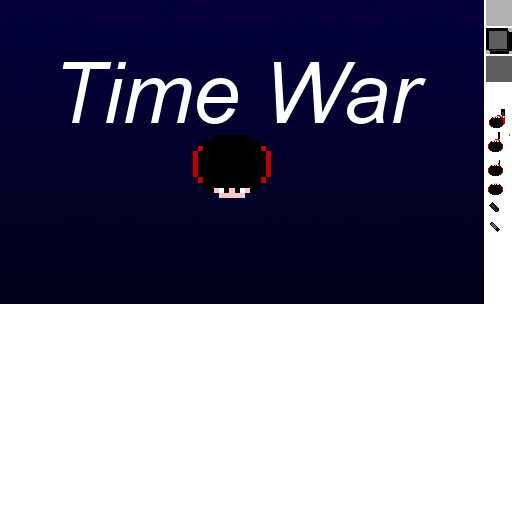
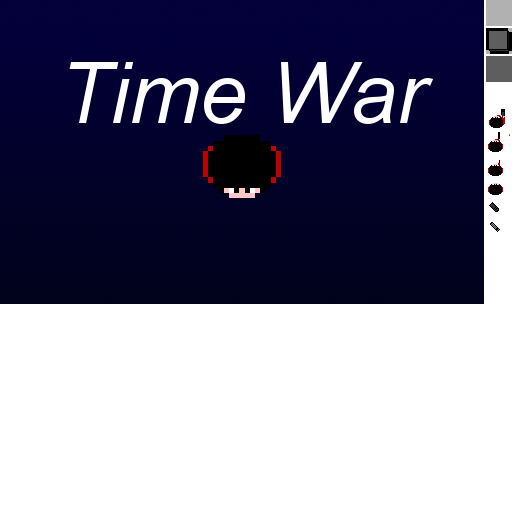
Added large font. and fixed graphics

Changed region(s): [[0.125, 0.0938, 0.5625, 0.4062], [0.5312, 0.0938, 0.8438, 0.25]]

diff --git a/Assets/Resources/Scripts/TitleScreen/TitleScreen.cs b/Assets/Resources/Scripts/TitleScreen/TitleScreen.cs
@@ -4,38 +4,49 @@ using System.Linq;
 using System.Text;
 using UnityEngine;
 
-	public class TitleScreen : FContainer
-	{
-        private float onScreenCount = 0;
-        private int startingLevel = 0;
-        public TitleScreen(): base()
-        {
-            FSprite background = new FSprite("titleScreen");
-            this.AddChild(background);
-        }
-        public override void HandleAddedToStage()
-        {
-            Futile.instance.SignalUpdate += Update;
-            Futile.stage.x = 0;
-            Futile.stage.y = 0;
-            base.HandleAddedToStage();
-        }
+public class TitleScreen : FContainer
+{
+    private float onScreenCount = 0;
+    private int startingLevel = 0;
+    private FLabel clickToStart;
 
-        public override void HandleRemovedFromStage()
-        {
-            Futile.instance.SignalUpdate -= Update;            
-            base.HandleRemovedFromStage();
-        }
+    public TitleScreen()
+        : base()
+    {
+        clickToStart = new FLabel("Large", "Click To Start");
+        FSprite background = new FSprite("titleScreen");
+        this.AddChild(background);
+        this.AddChild(clickToStart);
 
-        public void Update()
+        clickToStart.alpha = 0;
+        clickToStart.y = -Futile.screen.halfHeight / 2 ;
+    }
+
+    public override void HandleAddedToStage()
+    {
+        Futile.instance.SignalUpdate += Update;
+        Futile.stage.x = 0;
+        Futile.stage.y = 0;
+        base.HandleAddedToStage();
+    }
+
+    public override void HandleRemovedFromStage()
+    {
+        Futile.instance.SignalUpdate -= Update;
+        base.HandleRemovedFromStage();
+    }
+
+    public void Update()
+    {
+        onScreenCount += UnityEngine.Time.deltaTime;
+        if (onScreenCount > 1.0f)
+            clickToStart.alpha += UnityEngine.Time.deltaTime * 1.0f;
+        if (onScreenCount > 1.0f && Input.GetMouseButtonUp(0))
         {
-            onScreenCount += UnityEngine.Time.deltaTime;
-            if(onScreenCount > 1.0f && Input.GetMouseButtonUp(0))
-            {
-                this.RemoveFromContainer();
-                World world = new World(startingLevel);
-                Futile.instance.SignalUpdate += world.Update;
-            }
+            this.RemoveFromContainer();
+            World world = new World(startingLevel);
+            Futile.instance.SignalUpdate += world.Update;
         }
-	}
+    }
+}
 

diff --git a/Assets/Resources/Scripts/Clock.cs b/Assets/Resources/Scripts/Clock.cs
@@ -25,7 +25,7 @@ public class Clock : FRadialWipeSprite
         clockBackground = new FSprite("clock");
         clockBackground.SetPosition(GetPosition());
         label.x = x;
-        label.y = y - height/2 * tickScale / 2;
+        label.y = y - height / 2 * tickScale / 2;
 
     }
 
@@ -57,10 +57,10 @@ public class Clock : FRadialWipeSprite
     {
         timeLabel.MoveToFront();
         percentage -= UnityEngine.Time.deltaTime * .1f;
-        if (Mathf.FloorToInt(percentage * 10) != lastSecond)
+        if (Mathf.CeilToInt(percentage * 10) != lastSecond)
         {
-            lastSecond = Mathf.FloorToInt(percentage * 10);
-            timeLabel.text =""+ lastSecond;
+            lastSecond = Mathf.CeilToInt(percentage * 10);
+            timeLabel.text = "" + lastSecond;
             this.scale = tickScale;
         }
         else
@@ -72,13 +72,13 @@ public class Clock : FRadialWipeSprite
 
 
         if (this.percentage < .3f)
-            this.color = new Color(percentage*3, 0, 0);
+            this.color = new Color(percentage * 3, 0, 0);
         else if (this.percentage < .5f)
             this.color = new Color(percentage * 2, percentage * 2, 0);
         else
-            this.color = new Color( 1.0f - percentage, percentage*2,0);
+            this.color = new Color(1.0f - percentage, percentage * 2, 0);
 
         clockBackground.scale = this.scale;
-        
+
     }
 }

diff --git a/Assets/Resources/Scripts/World.cs b/Assets/Resources/Scripts/World.cs
@@ -27,7 +27,10 @@ public class World
     private Clock clock;
     private EnemyClock enemyClock;
 
-    private int[] enemiesOnLevel = new int[] { 30, 30, 40, 40, 1 };
+    float beginTime = 1.0f;             //Give the player 1 second for free at the beginning
+    float beginCount = 0;
+
+    private int[] enemiesOnLevel = new int[] { 30, 30, 40, 40, 40 };
 
     public World(int level)
     {
@@ -114,7 +117,11 @@ public class World
 
     public void Update()
     {
-        
+        if (beginCount < beginTime)
+        {
+            beginCount += UnityEngine.Time.deltaTime;
+            clock.percentage = 1.0f;
+        }
         enemyClock.percentage = (playerList.Count - 1) / startNumPlayers;
         if (playerList.Count == 1)
         {

diff --git a/Assets/Resources/Scripts/Main.cs b/Assets/Resources/Scripts/Main.cs
@@ -18,6 +18,7 @@ public class Main : MonoBehaviour
         Futile.atlasManager.LoadAtlas("Atlases/atlasOne");
         Futile.atlasManager.LoadAtlas("Atlases/Fonts");
         Futile.atlasManager.LoadFont("Small", "Small Font", "Atlases/Small Font", 0, 0);
+        Futile.atlasManager.LoadFont("Large", "Large Font", "Atlases/Large Font", 0, 0);
 
         TitleScreen titleScreen = new TitleScreen();
         Futile.stage.AddChild(titleScreen);

diff --git a/Assets/Resources/Scripts/Player.cs b/Assets/Resources/Scripts/Player.cs
@@ -209,8 +209,8 @@ public class Player : FAnimatedSprite
                 break;
             case Powerup.PowerupType.MACHINEGUN:
                 rotationRadians = -(rotation + 90) * C.PIOVER180;
-                xDisp = -10;
-                yDisp = -7;
+                xDisp = -12;
+                yDisp = -12;
                  randomAngle = 6;
                 for (int x = 0; x < 1; x++)
                 {
